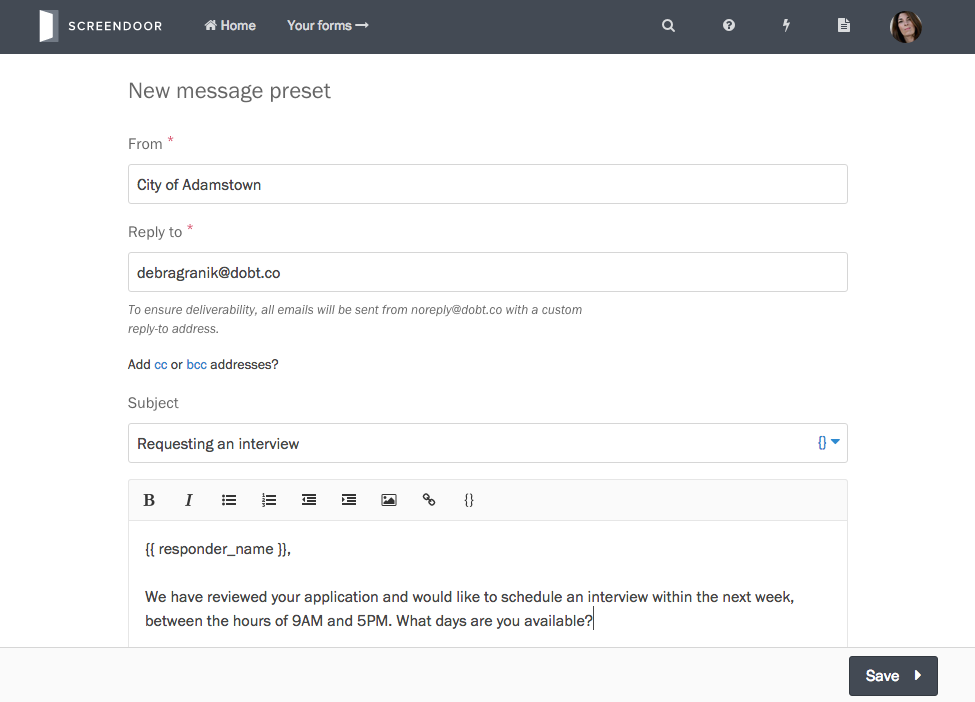
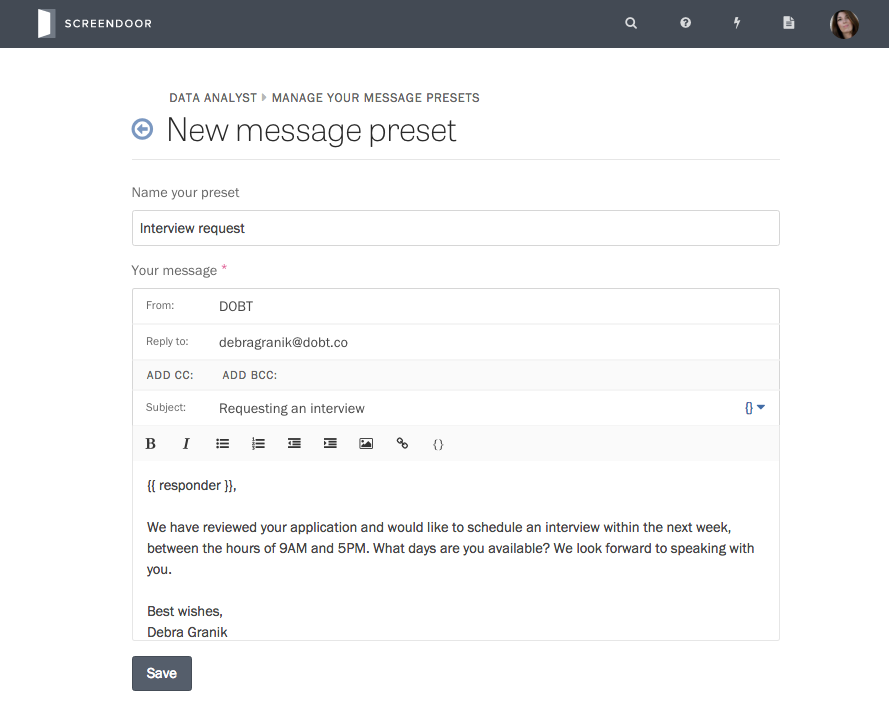
Update "Using message presets" article (#318)
* Update screenshots

* Update copy

diff --git a/contents/articles/screendoor/messages/presets.md b/contents/articles/screendoor/messages/presets.md
@@ -23,6 +23,6 @@ Write your preset just like you would write a normal message. ([Learn more about
 
 ### Using your preset
 
-You can send message presets to respondents with just a few clicks. When composing a message, click the "Use a preset" button, and select your preset from the dropdown.
+Whether you want to get in touch with one respondent or several respondents at once, you can create a message from one of your presets.
 
 ![Selecting a preset.](../images/messages_preset_3.png)
